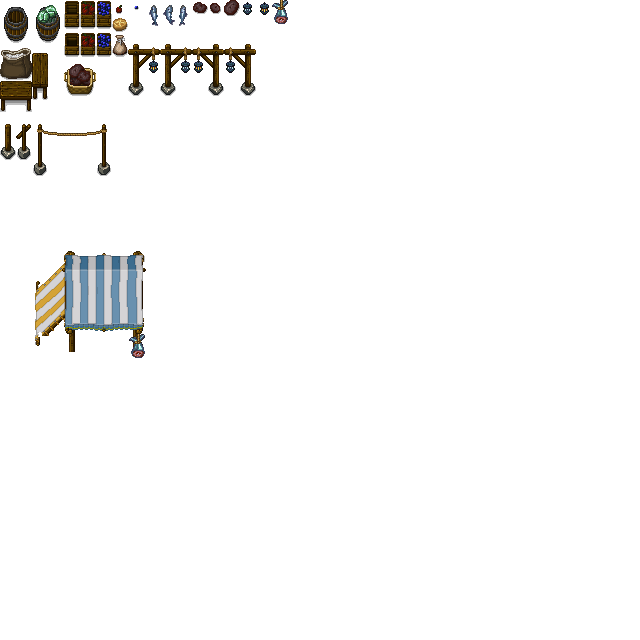
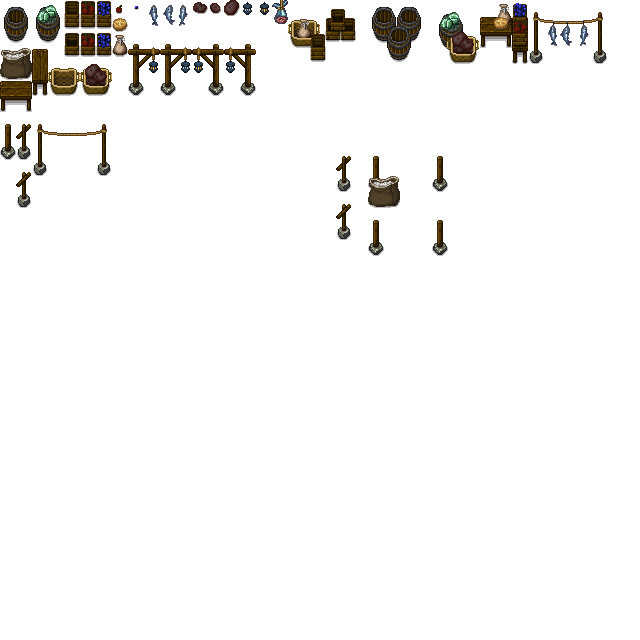
vendor art integration, round 2

diff --git a/js/sparkAssets.js b/js/sparkAssets.js
@@ -139,7 +139,7 @@ class SparkAssets {
                 Templates.xsprite("shadow", 15, 2),
                 Templates.xsprite("post", 0, 4, {height: 48}),
                 Templates.xsprite("post.s", 1, 4, {height: 48}),
-                Templates.xsprite("vendorBench",        2, 5, {width: 48, height: 32}),
+                //Templates.xsprite("vendorBench",        2, 5, {width: 48, height: 32}),
                 Templates.xsprite("postUpper.l",        0, 7, {width: 32 }),
                 Templates.xsprite("postUpper.s",        2, 7),
                 Templates.xsprite("postUpper.r",        3, 7, {width: 32 }),
@@ -162,13 +162,11 @@ class SparkAssets {
                 Templates.xsprite("apple",              7, 0, {width: 16, height: 16}),
                 Templates.xsprite("blueberry",          8, 0, {width: 16, height: 16}),
                 Templates.varSpriteRef("fish",          [[9,0], [10,0], [11,0]], { height: 32 }),
-                Templates.varSpriteRef("potatoe",       [[12,0], [13,0], [14,0]], ),
+                Templates.varSpriteRef("potato",        [[12,0], [13,0], [14,0]], ),
                 Templates.xsprite("lampOff",            15, 0, {width: 16, height: 16}),
                 Templates.xsprite("lampOn",             16, 0, {width: 16, height: 16}),
                 Templates.xsprite("fishTail",           17, 0, {width: 16, height: 32}),
-
                 Templates.xsprite("bread",              7, 1, {width: 16, height: 16}),
-
                 Templates.xsprite("halfcrate",          4, 2, {width: 16, height: 32}),
                 Templates.xsprite("halfcrateApple",     5, 2, {width: 16, height: 32}),
                 Templates.xsprite("halfcrateBlueberry", 6, 2, {width: 16, height: 32}),
@@ -177,19 +175,22 @@ class SparkAssets {
                 Templates.xsprite("lamppostRightOff",   10, 2, {width: 32, height: 64}),
                 Templates.xsprite("lamppostLeftOn",     12, 2, {width: 32, height: 64}),
                 Templates.xsprite("lamppostLeftOff",    14, 2, {width: 32, height: 64}),
-
                 Templates.xsprite("sack",               0, 3, {width: 32, height: 32}),
                 Templates.xsprite("table1x2",           2, 3, {width: 16, height: 48}),
                 Templates.xsprite("basket",             3, 4, {width: 32, height: 32}),
                 Templates.xsprite("basketPotatoes",     5, 4, {width: 32, height: 32}),
                 Templates.xsprite("table2x1",           0, 5, {width: 32, height: 32}),
-
                 Templates.xsprite("largePost",          0, 7, {width: 16, height: 48}),
                 Templates.xsprite("smallPostBCross",    1, 7, {width: 16, height: 48}),
                 Templates.xsprite("postLine",           2, 7, {width: 80, height: 64}),
                 Templates.xsprite("smallPostFCross",    1, 10, {width: 16, height: 48}),
-
-                Templates.xsprite("vendorRoof",         3, 15, {width: 16*8, height: 16*8}),
+                Templates.xsprite("vendorRoof",         2, 15, {width: 16*8, height: 16*8}),
+                Templates.xsprite("crateCluster",       18, 0, {width: 16*5, height: 16*4}),
+                Templates.xsprite("barrelCluster",      23, 0, {width: 16*4, height: 16*4}),
+                Templates.xsprite("cabbagePotatoCluster", 27, 0, {width: 16*3, height: 16*4}),
+                Templates.xsprite("vendorBench",        30, 0, {width: 16*2, height: 16*3}),
+                Templates.xsprite("appleBlueberryBench", 32, 0, {width: 16, height: 16*4}),
+                Templates.xsprite("postFishline",       33, 0, {width: 16*5, height: 16*4}),
             ]},
 
             { src: "img/stuccoWalls1.png", loader: "Sheet", refs: [
@@ -232,6 +233,30 @@ class SparkAssets {
                 animations: { 
                     [ModelState.idle]: { cls: "Media", tag: "bed.empty" }, 
                     [ModelState.occupied]: { cls: "Media", tag: "bed.occupied" }, 
+                },
+            },
+
+            { tag: "lamp", 
+                cls: "Animator", 
+                animations: { 
+                    [ModelState.idle]: { cls: "Media", tag: "lampOff" }, 
+                    [ModelState.sparked]: { cls: "Media", tag: "lampOn" }, 
+                },
+            },
+
+            { tag: "lamppostLeft", 
+                cls: "Animator", 
+                animations: { 
+                    [ModelState.idle]: { cls: "Media", tag: "lamppostLeftOff" }, 
+                    [ModelState.sparked]: { cls: "Media", tag: "lamppostLeftOn" }, 
+                },
+            },
+
+            { tag: "lamppostRight", 
+                cls: "Animator", 
+                animations: { 
+                    [ModelState.idle]: { cls: "Media", tag: "lamppostRightOff" }, 
+                    [ModelState.sparked]: { cls: "Media", tag: "lamppostRightOn" }, 
                 },
             },
 
@@ -364,38 +389,34 @@ class SparkAssets {
             Templates.tile("00u", "fern"),
             Templates.tile("00v", "stairs"),
 
-            //Templates.tile("00w", "barrel"),//             0, 0, {width: 32, height: 48}),
-            Templates.tile("00y", "crate"),//              4, 0, {width: 16, height: 32}),
-            Templates.tile("00z", "crateApple"),//         5, 0, {width: 16, height: 32}),
-            Templates.tile("00A", "crateBlueberry"),//     6, 0, {width: 16, height: 32}),
-            Templates.tile("00B", "apple"),//              7, 0, {width: 16, height: 16}),
-            Templates.tile("00C", "blueberry"),//          8, 0, {width: 16, height: 16}),
-            Templates.tile("00D", "fish"),//          [[9,0], [10,0], [11,0]], { height: 32 }),
-            Templates.tile("00E", "potatoe"),//       [[12,0], [13,0], [14,0]], ),
-            Templates.tile("00F", "lampOff"),//            15, 0, {width: 16, height: 16}),
-            Templates.tile("00G", "lampOn"),//             16, 0, {width: 16, height: 16}),
-            Templates.tile("00H", "fishTail"),//           17, 0, {width: 16, height: 32}),
-            Templates.tile("00I", "bread"),//              7, 1, {width: 16, height: 16}),
-            Templates.tile("00J", "halfcrate"),//          4, 2, {width: 16, height: 32}),
-            Templates.tile("00K", "halfcrateApple"),//     5, 2, {width: 16, height: 32}),
-            Templates.tile("00L", "halfcrateBlueberry"),// 6, 2, {width: 16, height: 32}),
-            Templates.tile("00M", "bag"),//                7, 2, {width: 16, height: 32}),
-            Templates.tile("00N", "lamppostRightOn"),//    8, 2, {width: 32, height: 64}),
-            Templates.tile("00O", "lamppostRightOff"),//   10, 2, {width: 32, height: 64}),
-            Templates.tile("00P", "lamppostLeftOn"),//     12, 2, {width: 32, height: 64}),
-            Templates.tile("00Q", "lamppostLeftOff"),//    14, 2, {width: 32, height: 64}),
-            Templates.tile("00R", "sack"),//               0, 3, {width: 32, height: 32}),
-            Templates.tile("00S", "table1x2"),//           2, 3, {width: 16, height: 48}),
-            Templates.tile("00T", "basket"),//             3, 4, {width: 32, height: 32}),
-            Templates.tile("00U", "basketPotatoes"),//     5, 4, {width: 32, height: 32}),
-            Templates.tile("00V", "table2x1"),//           0, 5, {width: 32, height: 32}),
+            Templates.tile("00w", "crate", {offy: -8, xcollider: { width: 12, height: 12, offy: 4 }}),
+            Templates.tile("00x", "apple"),
+            Templates.tile("00y", "blueberry"),
+            Templates.tile("00z", "fish", {offy: -8}),
+            Templates.tile("00A", "potato"),
+            Templates.tile("00B", "lamp"),
+            Templates.tile("00C", "fishTail", {offy: -8}),
+            Templates.tile("00D", "bread"),
+            Templates.tile("00E", "halfcrate", {offy: -8, xcollider: { width: 12, height: 12, offy: 4 }}),
+            Templates.tile("00F", "bag", {offy: -8}),
+            Templates.tile("00G", "lamppostRight", {offx: 8, offy: -24}),
+            Templates.tile("00H", "lamppostLeft", {offx: -8, offy: -24}),
+            Templates.tile("00I", "sack", {offx: 8, offy: -8 }),
+            Templates.tile("00J", "table1x2", {offy: -16}),
+            Templates.tile("00K", "basket", {offx: 8, offy: -8 }),
+            Templates.tile("00L", "table2x1", {offx: 8, offy: -8}),
+            Templates.tile("00M", "largePost", {offy: -16}),
+            Templates.tile("00N", "smallPostBCross", {offy: -16}),
+            Templates.tile("00O", "smallPostFCross", {offy: -16}),
+            Templates.tile("00P", "postLine", {offx: 32, offy: -24}),
+            Templates.tile("00Q", "vendorRoof", {offx: 56, offy: -56}),
 
-            Templates.tile("00Z", "largePost"),             //          0, 7, {width: 16, height: 48}),
-            Templates.tile("0a1", "smallPostBCross"),       //    1, 7, {width: 16, height: 48}),
-            Templates.tile("0a2", "postLine"),              //           2, 7, {width: 80, height: 64}),
-            Templates.tile("0a3", "smallPostFCross"),       //    1, 10, {width: 16, height: 48}),
-
-            Templates.tile("0a4", "vendorRoof"),            //         3, 15, {width: 16*8, height: 16*8}),
+            Templates.tile("00R", "crateCluster", {offx: 32, offy: -24}),
+            Templates.tile("00S", "barrelCluster", {offx: 24, offy: -24}),
+            Templates.tile("00T", "cabbagePotatoCluster", {offx: 12, offy: -24}),
+            Templates.tile("00U", "vendorBench", {offx: 8, offy: -16}),
+            Templates.tile("00V", "appleBlueberryBench", {offy: -24}),
+            Templates.tile("00W", "postFishline", {offx: 32, offy: -24}),
 
             Templates.object("o00", "sparkbase", "SparkBase", { 
                 powered: true,
@@ -433,7 +454,7 @@ class SparkAssets {
                 xcollider: {width:10, height:20, offy: 10}, 
             }),
 
-            Templates.object("o06", "vendorBench", "Workstation", {
+            Templates.object("o06", "xvendorBench", "Workstation", {
                 offy: -8,
                 occupiedDir: Direction.south, 
                 occupiedOffX: 0, occupiedOffY: -24,
@@ -450,12 +471,37 @@ class SparkAssets {
             }),
 
             Templates.object("o08", "barrel", "Stock", {
-                offx: 8,
+                offx: 8, offy: -16,
                 xcollider: { width: 24, height: 20, offy: 4 },
             }),
 
             Templates.object("o09", "barrelCabbage", "Stock", {
-                offx: 8,
+                offx: 8, offy: -16,
+                xcollider: { width: 24, height: 20, offy: 4 },
+            }),
+
+            Templates.object("o0a", "crateApple", "Stock", {
+                offy: -8,
+                xcollider: { width: 12, height: 12, offy: 4 },
+            }),
+
+            Templates.object("o0b", "crateBlueberry", "Stock", {
+                offy: -8,
+                xcollider: { width: 12, height: 12, offy: 4 },
+            }),
+
+            Templates.object("o0c", "halfcrateApple", "Stock", {
+                offy: -8,
+                xcollider: { width: 12, height: 12, offy: 4 },
+            }),
+
+            Templates.object("o0d", "halfcrateBlueberry", "Stock", {
+                offy: -8,
+                xcollider: { width: 12, height: 12, offy: 4 },
+            }),
+
+            Templates.object("o0e", "basketPotatoes", "Stock", {
+                offx: 8, offy: -8,
                 xcollider: { width: 24, height: 20, offy: 4 },
             }),
 

diff --git a/js/worldGen.js b/js/worldGen.js
@@ -2476,69 +2476,70 @@ class WorldGen {
 
     static vendor1 = {
         tag: "vendor1",
-        columns: 8,
-        rows: 7,
+        columns: 16,
+        rows: 16,
         offx: 20,
         offy: 20,
         autoArea: true,
         layers: {
             l1: {
-                xbg: [   
-                    "0003",
+                bg: [
+                    "0003","0003","0003","0003","0003","0003","0003","0003","0X2j","0X2j","0X2j","0X2j","0X2j","0X2j","0X2j","0X2j",
+                    "0003","0003","0003","0003","0003","0003","0003","0003","0X2j","0X2j","0X2j","0X2j","0X2j","0X2j","0X2j","0X2j",
+                    "0003","0003","0003","0003","0003","0003","0003","0003","0X2j","0X2j","0X2j","0X2j","0X2j","0X2j","0X2j","0X2j",
+                    "0003","0003","0003","0003","0003","0003","0003","0003","0X2j","0X2j","0X2j","0X2j","0X2j","0X2j","0X2j","0X2j",
+                    "0003","0003","0003","0003","0003","0003","0003","0003","0X2j","0X2j","0X2j","0X2j","0X2j","0X2j","0X2j","0X2j",
+                    "0003","0003","0003","0003","0003","0003","0003","0003","0X2j","0X2j","0X2j","0X2j","0X2j","0X2j","0X2j","0X2j",
+                    "0003","0003","0003","0003","0003","0003","0003","0003","0X2j","0X2j","0X2j","0X2j","0X2j","0X2j","0X2j","0X2j",
+                    "0X2j","0X2j","0X2j","0X2j","0X2j","0X2j","0X2j","0X2j","0X2j","0X2j","0X2j","0X2j","0X2j","0X2j","0X2j","0X2j",
+                    "0X2j","0X2j","0X2j","0X2j","0X2j","0X2j","0X2j","0X2j","0X2j","0X2j","0X2j","0X2j","0X2j","0X2j","0X2j","0X2j",
+                    "0X2j","0X2j","0X2j","0X2j","0X2j","0X2j","0X2j","0X2j","0X2j","0X2j","0X2j","0X2j","0X2j","0X2j","0X2j","0X2j",
+                    "0X2j","0X2j","0X2j","0X2j","0X2j","0X2j","0X2j","0X2j","0X2j","0X2j","0X2j","0X2j","0X2j","0X2j","0X2j","0X2j",
+                    "0X2j","0X2j","0X2j","0X2j","0X2j","0X2j","0X2j","0X2j","0X2j","0X2j","0X2j","0X2j","0X2j","0X2j","0X2j","0X2j",
+                    "0X2j","0X2j","0X2j","0X2j","0X2j","0X2j","0X2j","0X2j","0X2j","0X2j","0X2j","0X2j","0X2j","0X2j","0X2j","0X2j",
+                    "0X2j","0X2j","0X2j","0X2j","0X2j","0X2j","0X2j","0X2j","0X2j","0X2j","0X2j","0X2j","0X2j","0X2j","0X2j","0X2j",
+                    "0X2j","0X2j","0X2j","0X2j","0X2j","0X2j","0X2j","0X2j","0X2j","0X2j","0X2j","0X2j","0X2j","0X2j","0X2j","0X2j",
+                    "0X2j","0X2j","0X2j","0X2j","0X2j","0X2j","0X2j","0X2j","0X2j","0X2j","0X2j","0X2j","0X2j","0X2j","0X2j","0X2j",
                 ],
-                bg: [   
-                    "0003","0003","0003","0003","0003","0003","0003","0003",
-                    "0003","0003","0003","0003","0003","0003","0003","0003",
-                    "0003","0003","0003","0003","0003","0003","0003","0003",
-                    "0003","0003","0003","0003","0003","0003","0003","0003",
-                    "0003","0003","0003","0003","0003","0003","0003","0003",
-                    "0003","0003","0003","0003","0003","0003","0003","0003",
-                    "0003","0003","0003","0003","0003","0003","0003","0003",
+                bgo: [
+                    "0X2n","0X2l","0X2l","0X2l","0X2l","0X2l","0X2l","0X2m","0000","0000","0000","0000","0000","0000","0000","0000",
+                    "0X2g","0000","0000","0000","0000","0000","0000","0X2f","0000","0000","0000","0000","0000","0000","0000","0000",
+                    "0X2g","0000","0000","0000","0000","0000","0000","0X2f","0000","0000","0000","0000","0000","0000","0000","0000",
+                    "0X2g","0000","0000","0000","0000","0000","0000","0X2f","0000","0000","0000","0000","0000","0000","0000","0000",
+                    "0X2g","0000","0000","0000","0000","0000","0000","0X2f","0000","0000","0000","0000","0000","0000","0000","0000",
+                    "0X2g","0000","0000","0000","0000","0000","0000","0X2f","0000","0000","0000","0000","0000","0000","0000","0000",
+                    "0X2i","0X2d","0X2d","0X2d","0X2d","0X2d","0X2d","0X2h","0000","0000","0000","0000","0000","0000","0000","0000",
+                    "0000","0000","0000","0000","0000","0000","0000","0000","0000","0000","0000","0000","0000","0000","0000","0000",
+                    "0000","0000","0000","0000","0000","0000","0000","0000","0000","0000","0000","0000","0000","0000","0000","0000",
+                    "0000","0000","0000","0000","0000","0000","0000","0000","0000","0000","0000","0000","0000","0000","0000","0000",
+                    "0000","0000","0000","0000","0000","0000","0000","0000","0000","0000","0000","0000","0000","0000","0000","0000",
+                    "0000","0000","0000","0000","0000","0000","0000","0000","0000","0000","0000","0000","0000","0000","0000","0000",
+                    "0000","0000","0000","0000","0000","0000","0000","0000","0000","0000","0000","0000","0000","0000","0000","0000",
+                    "0000","0000","0000","0000","0000","0000","0000","0000","0000","0000","0000","0000","0000","0000","0000","0000",
+                    "0000","0000","0000","0000","0000","0000","0000","0000","0000","0000","0000","0000","0000","0000","0000","0000",
+                    "0000","0000","0000","0000","0000","0000","0000","0000","0000","0000","0000","0000","0000","0000","0000","0000",
                 ],
-                bgo: [   
-                    "0X2n","0X2l","0X2l","0X2l","0X2l","0X2l","0X2l","0X2m",
-                    "0X2g","0000","0000","0000","0000","0000","0000","0X2f",
-                    "0X2g","0000","0000","0000","0000","0000","0000","0X2f",
-                    "0X2g","0000","0000","0000","0000","0000","0000","0X2f",
-                    "0X2g","0000","0000","0000","0000","0000","0000","0X2f",
-                    "0X2g","0000","0000","0000","0000","0000","0000","0X2f",
-                    "0X2i","0X2d","0X2d","0X2d","0X2d","0X2d","0X2d","0X2h",
-                ],
-                fg: [   
-                    "0000","000g","0000","000j","0000","0000","000h","0000",
-                    "0000","0000","0000","0000","0009","0008","0000","0000",
-                    "0000","0000","0000","0000","0000","0000","0000","0000",
-                    "0000","000g","0o06","000j","0000","0o08","000h","0000",
+                fg: [
+                    "0000","0000","0000","0000","0000","0000","0000","0000","0000","0000","0000","0000","0000","0000","0000","0000",
+                    "0000","0o08","0000","0o09","0000","0o0a","0o0b","0o0c","0o0d","0o0e","0000","0000","0000","0000","0000","0000",
+                    "0000","0000","0000","0000","0000","0000","0000","0000","0000","0000","0000","0000","0000","0000","0000","0000",
+                    "0000","000w","000x","000y","000z","000A","000B","000C","000D","000E","000F","000G","0000","0000","000H","0000",
+                    "0000","0000","0000","0000","0000","0000","0000","0000","0000","0000","0000","0000","0000","0000","0000","0000",
+                    "0000","000I","0000","000J","000K","0000","000L","0000","000M","000N","000O","000P","0000","0000","0000","0000",
+                    "0000","0000","0000","0000","0000","0000","0000","0000","0000","0000","0000","0000","0000","0000","0000","0000",
+                    "0000","0000","0000","0000","0000","0000","0000","0000","0000","0000","0000","0000","0000","0000","0000","0000",
+                    "0000","0000","0000","0000","0000","0000","0000","0000","0000","0000","0000","0000","0000","0000","0000","0000",
+                    "0000","000R","0000","0000","0000","0000","000S","0000","0000","0000","000T","0000","0000","000U","0000","0000",
+                    "0000","0000","0000","0000","0000","0000","0000","0000","0000","0000","0000","0000","0000","0000","0000","0000",
+                    "0000","0000","0000","0000","0000","0000","0000","0000","0000","0000","0000","0000","0000","0000","0000","0000",
+                    "0000","0000","0000","0000","0000","0000","0000","0000","0000","0000","0000","0000","0000","0000","0000","0000",
+                    "0000","000V","000W","0000","0000","0000","0000","0000","0000","0000","0000","0000","0000","0000","0000","0000",
+                    "0000","0000","0000","0000","0000","0000","0000","0000","0000","0000","0000","0000","0000","0000","0000","0000",
+                    "0000","0000","0000","0000","0000","0000","0000","0000","0000","0000","0000","0000","0000","0000","0000","0000",
                 ],
             },
-
-            l2: {
-                fg: [   
-                    "0000","000e","000e","000e","000e","000e","000e","0000",
-                    "0000","000e","000e","000e","000e","000e","000e","0000",
-                    "0000","000e","000e","000e","000e","000e","000e","0000",
-                    "0000","000d","000d","000d","000d","000d","000d","0000",
-                ],
-                fgo: [   
-                    "0000","0000","0000","0000","0000","0000","0000","0000",
-                    "0000","0000","0000","0000","0000","0000","0000","0000",
-                    "0000","000l","0000","000m","0000","000n","0000","0000",
-                    "0000","0000","0000","0000","0000","0000","0000","0000",
-                ]
-
-            },
-
-            l3: {
-                fg: [   
-                    "0000","0rbm","0rbn","0rbn","0rbn","0rbn","0rbo","0000",
-                    "0000","0rfa","0rfb","0rfb","0rfb","0rfb","0rfc","0000",
-                    "0000","0rfd","0rfe","0rfe","0rfe","0rfe","0rff","0000",
-                    "0000","0rfm","0rfm","0rfm","0rfm","0rfm","0rfm","0000",
-                ],
-            },
-
         },
-    }
+    };
 
     static patch1 = {
         tag: "patch1",
